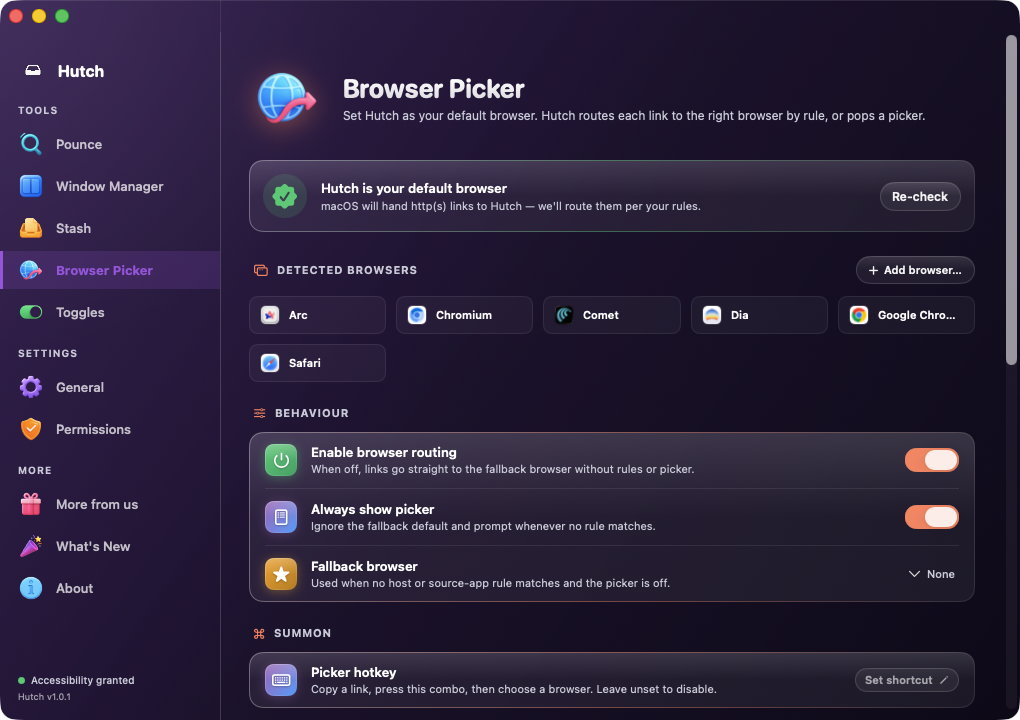
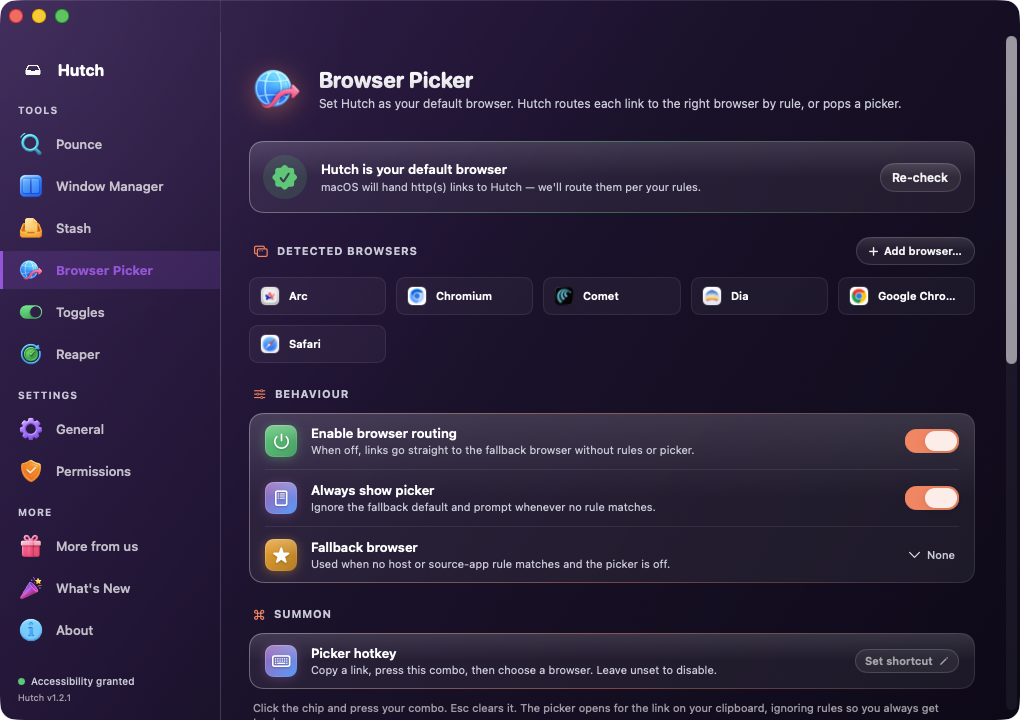
site: refresh Window Manager, Browser Picker, Toggles shots to 1.2.1

diff --git a/index.html b/index.html
@@ -183,7 +183,7 @@
           </ul>
         </div>
         <figure class="stage narrow glow-amber">
-          <img src="screenshots/toggles.png" alt="The Toggles popover with switches for Hide Desktop, Dark Mode, Keep Awake, AirPods and Focus"
+          <img src="screenshots/toggles.png" alt="The Toggles popover with a Reap Resources action row plus switches for Hide Desktop Icons, Dark Mode, Caffeinate and AirPods"
                width="320" height="480" loading="lazy" decoding="async" />
         </figure>
       </div>
